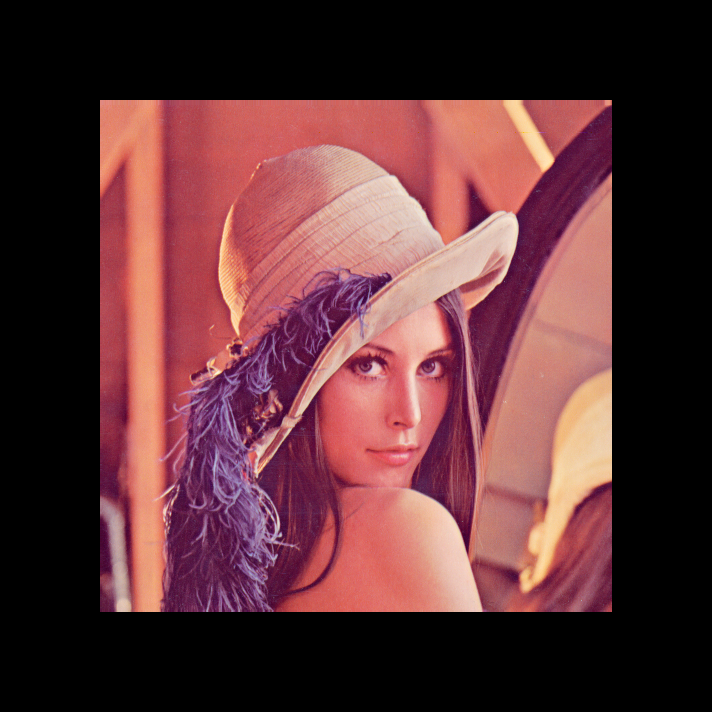
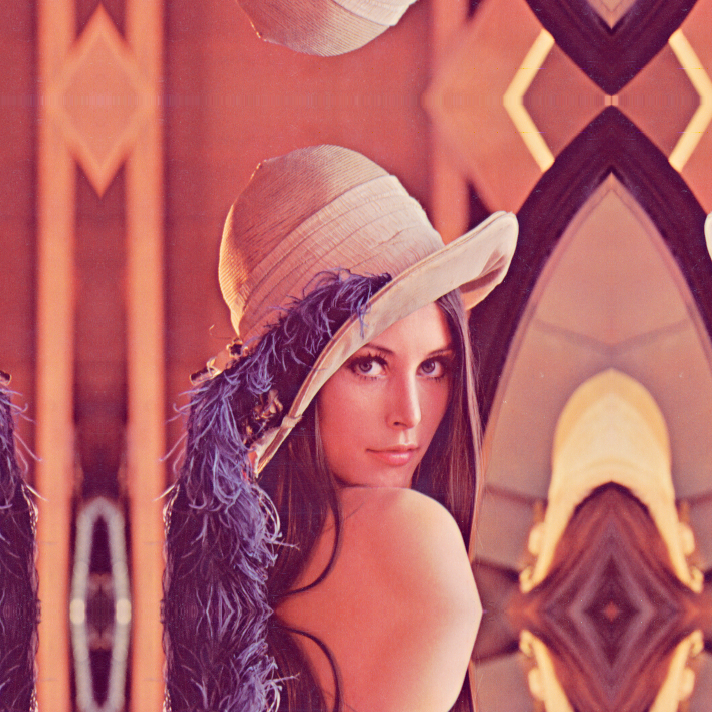
changed up in error

diff --git a/assignment_2/main.py b/assignment_2/main.py
@@ -2,11 +2,11 @@ import cv2
 import numpy as np
 
 def padding(image, border_with):
-    padded_image = cv2.copyMakeBorder(image, border_with, border_with, border_with, border_with, cv2.BORDER_CONSTANT)
+    padded_image = cv2.copyMakeBorder(image, border_with, border_with, border_with, border_with, cv2.BORDER_REFLECT_101)
     cv2.imwrite("images/padded_image.png", padded_image)
 
 def cropping(image, x_0, x_1,  y_0, y_1):
-    cropped_image = image[x_0:x_1, y_0:y_1]
+    cropped_image = image[y_0:y_1, x_0:x_1]
     cv2.imwrite("images/cropped_image.png", cropped_image)
 
 def resize(image, width, height):
@@ -26,14 +26,15 @@ def hsv(image):
     cv2.imwrite("images/hsv_image.png", hsv_image)
 
 def hue_shifted(image, emptyPictureArray, hue):
-    shifted_image = emptyPictureArray[:] = image    
-    shifted_image = shifted_image + hue    
-    cv2.imwrite("images/hue_shifted_image.png", shifted_image)
+    shifted_image = image + hue
+    shifted_image = np.clip(shifted_image, 0, 255)
+    emptyPictureArray[:] = shifted_image
+    cv2.imwrite("images/hue_shifted_image.png", emptyPictureArray)
+    return emptyPictureArray
 
 def smoothing(image):
     smoothed_image = cv2.GaussianBlur(image, (15, 15), cv2.BORDER_DEFAULT)
     cv2.imwrite("images/smoothed_image.png", smoothed_image)
-
 
 def rotation(image, rotation_angle):
     if rotation_angle == 90:
